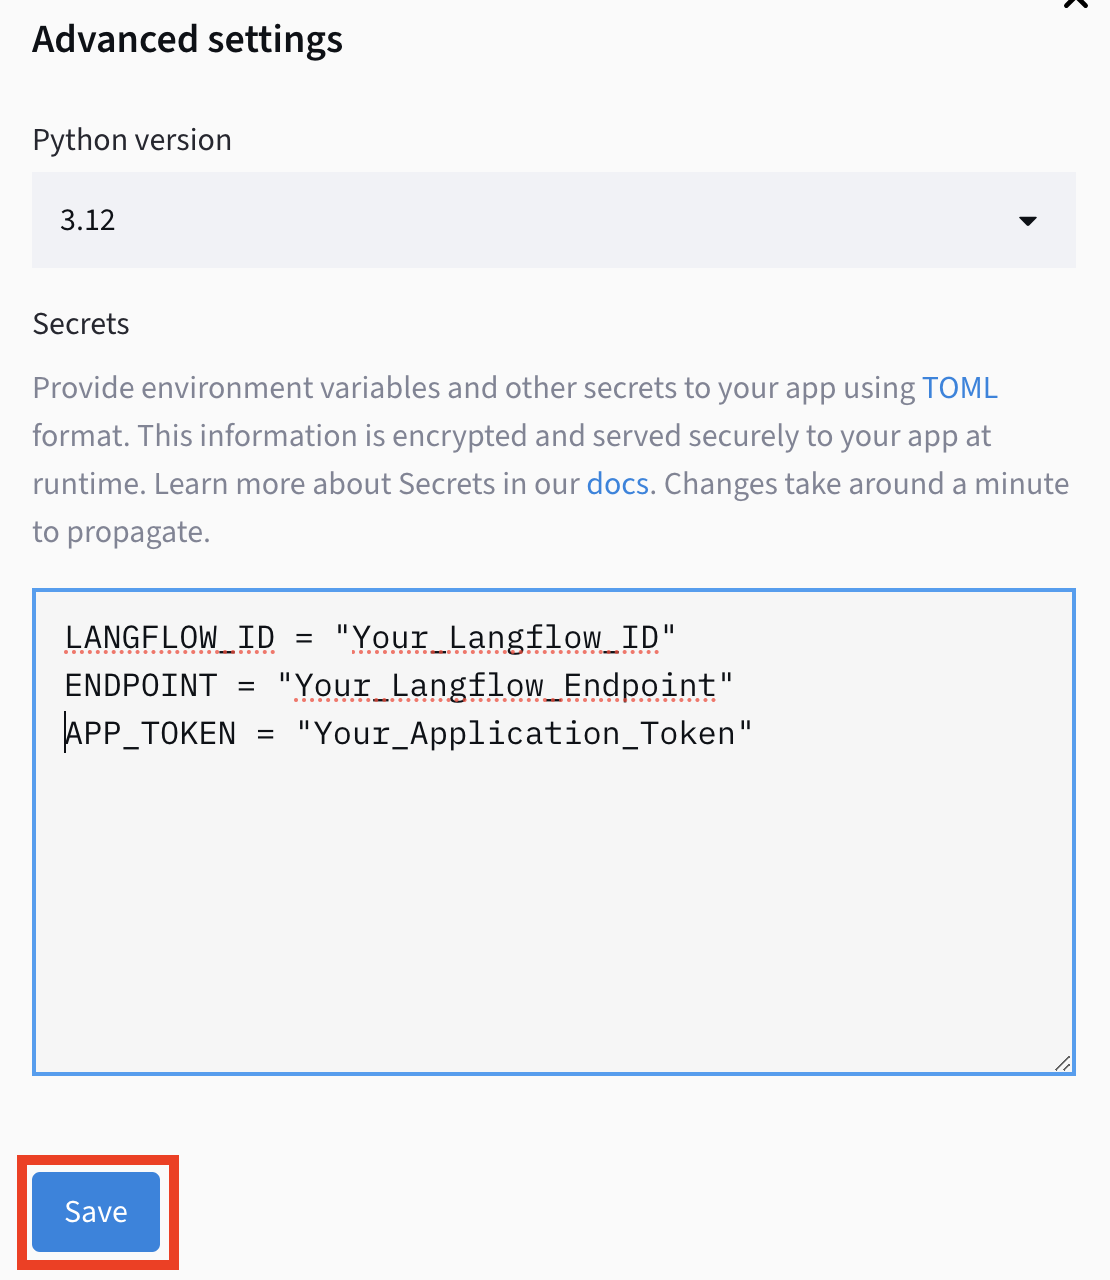
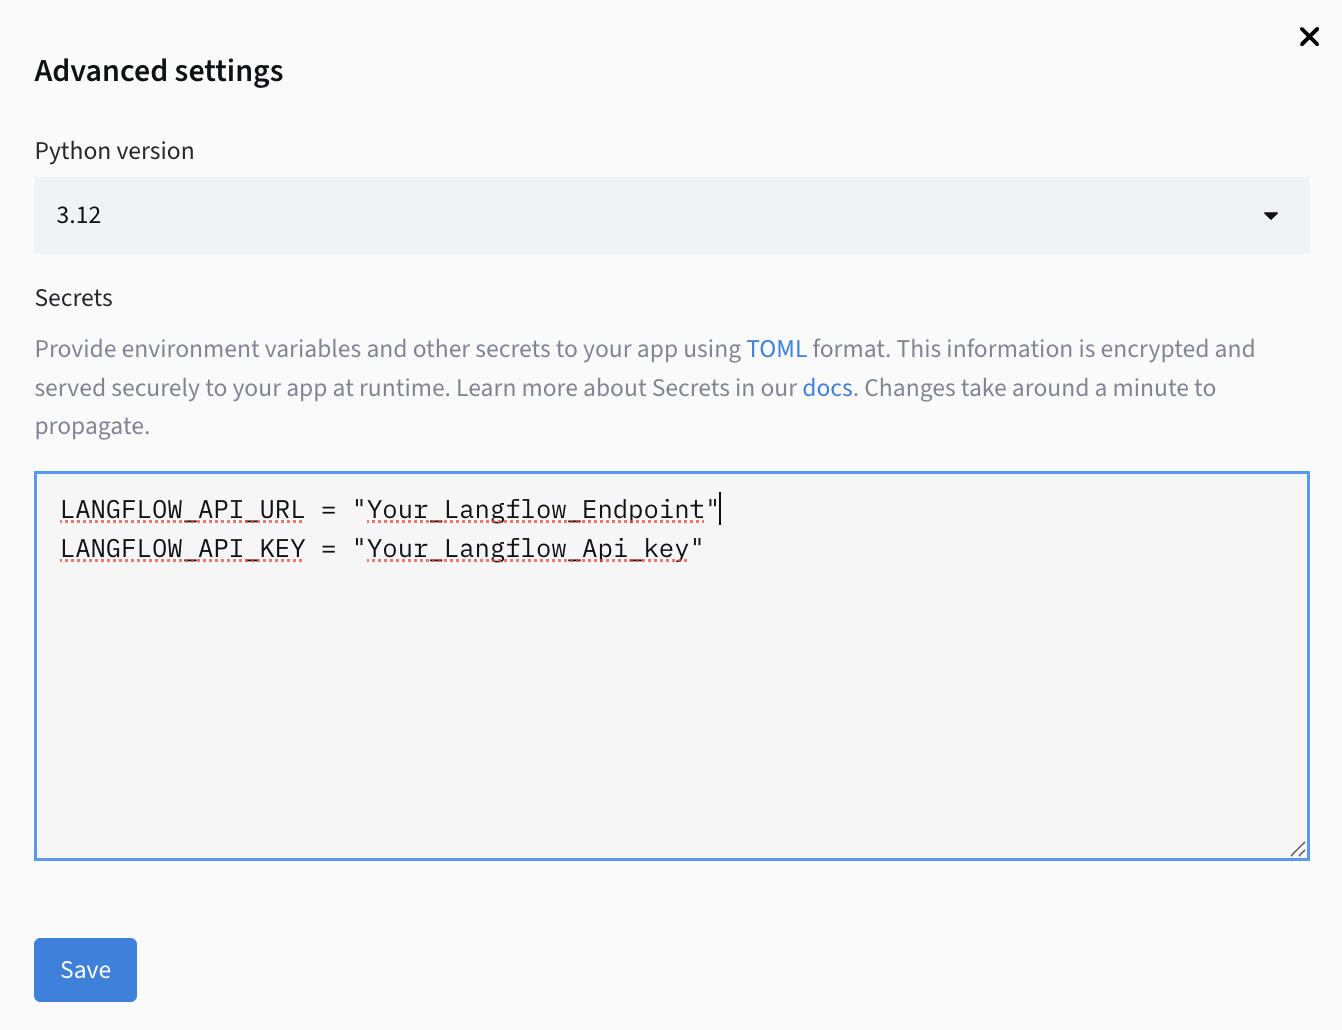
adapt instructions for self-managed Langflow

diff --git a/README.md b/README.md
@@ -223,7 +223,7 @@ The agent we developed so far cannot answer questions specific to our context an
 ---
 
 #### **Create a New Database in Astra DB** 📋  
-- In the [`Astra DB` ui](https://astra.datastax.com), click **Create Database** to create a new database.
+- In the [`Astra DB`] ui, (https://astra.datastax.com), click **Create Database** to create a new database.
 
    <img src="assets/astra-create-db.png" alt="astra create db" width="800">
 
@@ -634,7 +634,7 @@ Create a user-friendly interface using Streamlit to connect your Langflow-powere
 
 - Log in to Langflow, click **the avatar** in the right hand upper corner.
 
-   <img src="assets/langflow-settings.png" alt="Langflow Settings" width="800">
+   <img src="assets/langflow-settings.png" alt="Langflow Settings" width="500">
 
 - Click **Settings**
 - Click **Langflow API Keys**
@@ -644,7 +644,7 @@ Create a user-friendly interface using Streamlit to connect your Langflow-powere
 
 - Click **Create Secret Key**.  
 
-   <img src="assets/langflow-create-secret.png" alt="Langflow create secret" width="800">
+   <img src="assets/langflow-create-secret.png" alt="Langflow create secret" width="300">
   
 - Copy the key and paste the key into your `secrets.toml`.  
 - Click the **API** button and copy the full url from the curl command and paste it into your `secrets.toml` under `LANGFLOW_API_URL`.  
@@ -715,7 +715,7 @@ git push origin main
 - On the Streamlit Cloud dashboard, click **Create App**.  
   <img src="assets/streamlit-create-app.png" alt="Streamlit Create App Button" width="800">
 
-- Fill in the details, specifying your forked GitHub repository. Choose the branch (e.g., `main`) and `app.py` as the entry point.  
+- Fill in the details, specifying your forked GitHub repository. Choose the branch `self-managed and `app.py` as the entry point.  
   <img src="assets/streamlit-settings.png" alt="Streamlit App Settings" width="500">
 
 ---
@@ -785,14 +785,18 @@ The `app.py` file serves as the backbone of your application, connecting the **S
 ### **API Integration**
 
 The `run_flow()` function is responsible for communicating with the Langflow backend:
-- **Base API URL**: Retrieved from the `secrets.toml` file (`LANGFLOW_ID`, `ENDPOINT`, and `APP_TOKEN`).
+- **API URL**: Retrieved from the `secrets.toml` file (`LANGFLOW_API_URL`).
+- **Authentication**: Uses `x-api-key` for secure requests.
 - **Payload**: Sends user input to the backend in JSON format.
 - **Response Handling**: Extracts the AI-generated response for display in the UI.
 
 Code Snippet:
 ```python
 def run_flow(message: str) -> dict:
-    api_url = f"{BASE_API_URL}/lf/{LANGFLOW_ID}/api/v1/run/{ENDPOINT}"
+    """
+    Sends a request to the Langflow API using x-api-key authentication.
+    """
+    api_url = LANGFLOW_API_URL  # Ensure the full API URL is in secrets (including query params if needed)
 
     payload = {
         "input_value": message,
@@ -800,9 +804,17 @@ def run_flow(message: str) -> dict:
         "input_type": "chat",
     }
 
-    headers = {"Authorization": "Bearer " + APPLICATION_TOKEN, "Content-Type": "application/json"}
+    headers = {
+        "x-api-key": LANGFLOW_API_KEY,  # Using x-api-key for authentication
+        "Content-Type": "application/json"
+    }
+
     response = requests.post(api_url, json=payload, headers=headers)
-    return response.json()
+
+    if response.status_code == 200:
+        return response.json()
+    else:
+        return {"error": f"Request failed with status {response.status_code}: {response.text}"}
 ```
 
 ---
@@ -816,8 +828,9 @@ The Streamlit front end provides an intuitive interface for user interactions:
 
 Code Snippet (Input and Response Handling):
 ```python
-# Display chat history
+# Display chat history (latest at the top)
 for message in st.session_state["messages"]:
+    st.markdown(f'<div class="timestamp">{message["timestamp"]}</div>', unsafe_allow_html=True)
     # User's message
     st.markdown(f'<div class="chat-bubble-user">{message["user"]}</div>', unsafe_allow_html=True)
     # Bot's response
@@ -835,6 +848,26 @@ Custom CSS styles ensure the app is visually appealing and user-friendly. Exampl
     color: white;
     padding: 10px;
     border-radius: 15px;
+    max-width: 80%;
+    margin-bottom: 10px;
+    font-size: 16px;
+    line-height: 1.5;
+}
+.chat-bubble-user {
+    background-color: #f1f1f1;
+    color: black;
+    padding: 10px;
+    border-radius: 15px;
+    max-width: 80%;
+    margin-bottom: 10px;
+    align-self: flex-end;
+    font-size: 16px;
+    line-height: 1.5;
+}
+.timestamp {
+    font-size: 12px;
+    color: gray;
+    margin-bottom: 5px;
 }
 ```
 
@@ -843,9 +876,8 @@ Custom CSS styles ensure the app is visually appealing and user-friendly. Exampl
 ### **Secrets Management**
 
 The `secrets.toml` file stores sensitive credentials:
-- **Langflow ID**: Identifies the specific flow to connect.
-- **Application Token**: Authenticates API requests.
-- **Endpoint**: Specifies the Langflow backend entry point.
+- **Langflow API URL**: The endpoint for sending queries to the backend.
+- **Langflow API Key**: Used for authentication in API requests.
 
 ---
 
@@ -854,8 +886,8 @@ The `secrets.toml` file stores sensitive credentials:
 The app performs these key steps:
 1. Users submit a query via the Streamlit interface.
 2. The query is sent to Langflow through the `run_flow()` function.
-3. Langflow processes the query using your custom flow and returns a response.
-4. The response is displayed in the Streamlit UI, styled as chat bubbles.
+3. Langflow processes the query using the custom flow and returns a response.
+4. The response is displayed in the Streamlit UI, styled as chat bubbles with timestamps.
 
 ---
 
@@ -863,4 +895,4 @@ By understanding `app.py`, you can:
 - Customize its functionality for your specific use case.
 - Add more features, like new buttons or additional styling.
 
-> **Next Steps:** Experiment with `app.py` to expand your app's capabilities!
+> **Next Steps:** Experiment with `app.py` to expand your app's capabilities! 🚀
